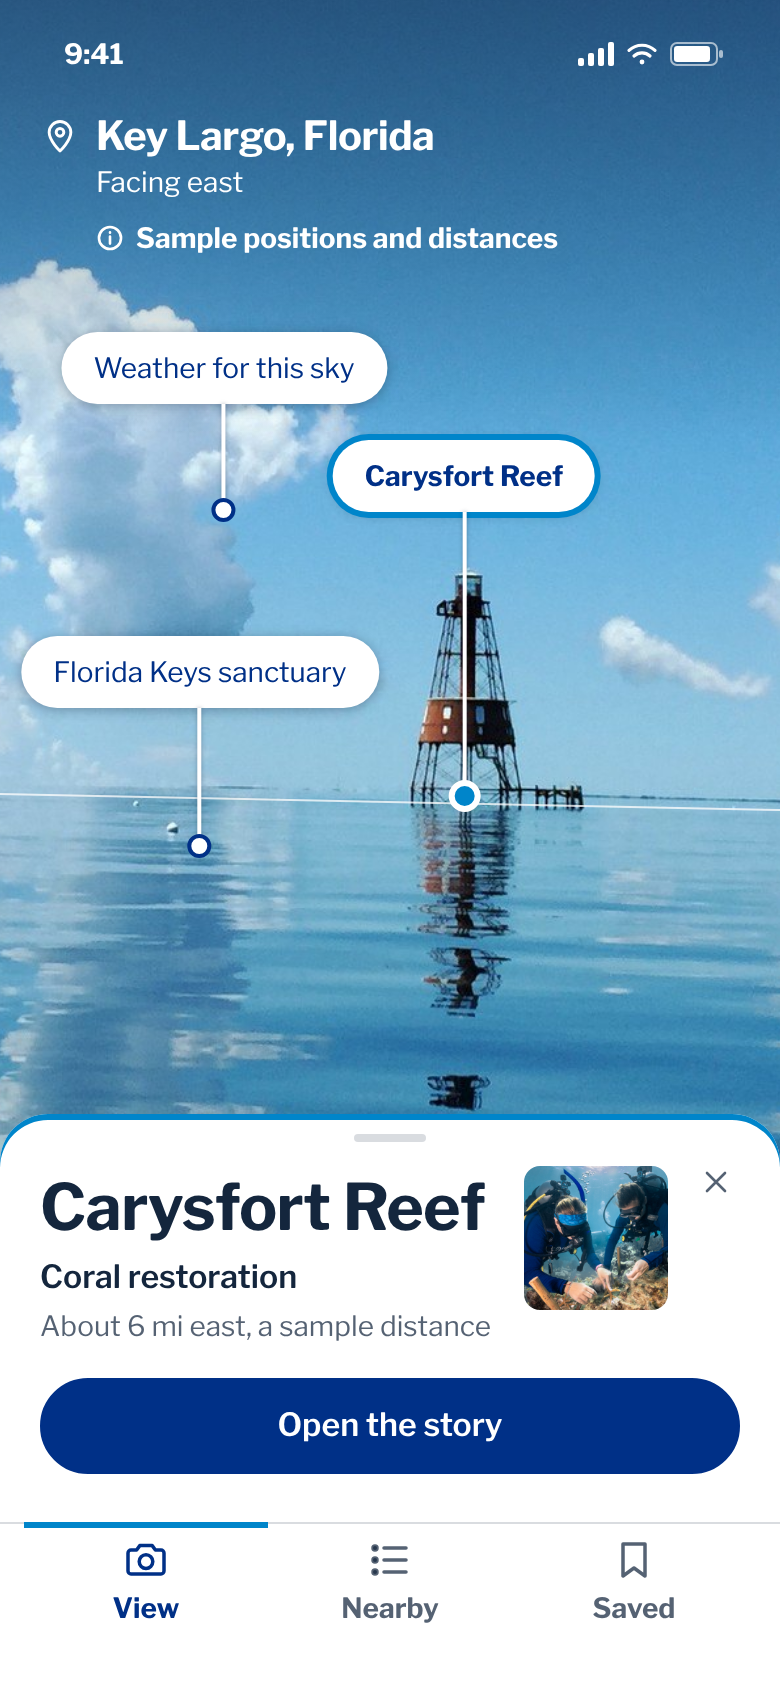
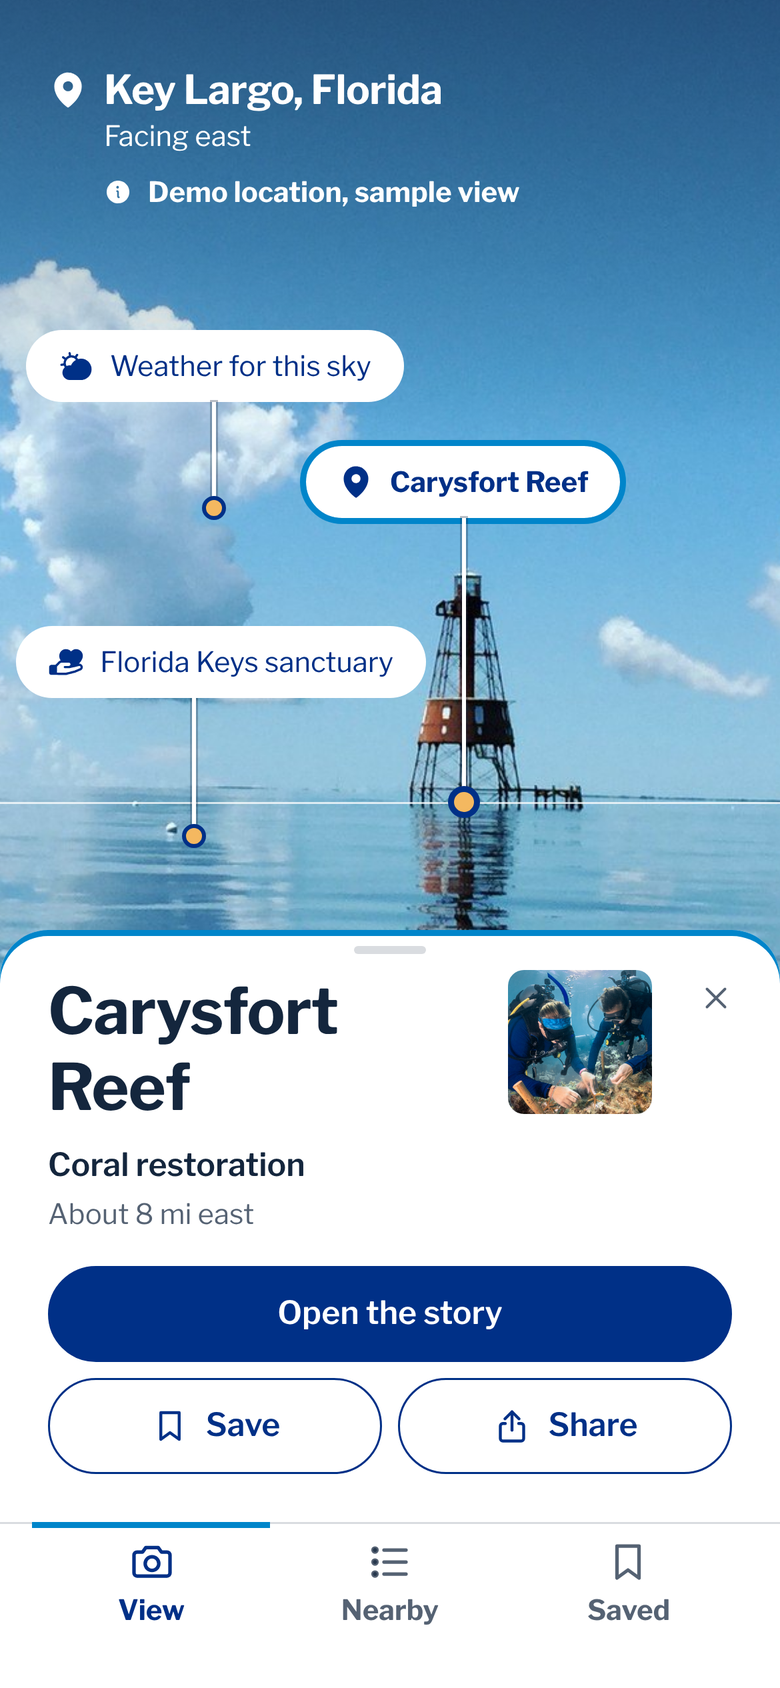
Site: pictures of the app show the current Horizon screens (#7)
The home page's closing section and the Ocean and sky page showed an older
app ("Sample positions and distances", no Save or Share). Both are now
the current sample view and the Carysfort Reef preview, 780 x 1688 as before.

Claude-Session: https://claude.ai/code/session_01VtQuQ34UCohJdqjaP6mgAg

diff --git a/ocean-and-sky.html b/ocean-and-sky.html
@@ -423,7 +423,7 @@
           <a class="link" href="horizon/index.html">Get the Horizon app</a>
         </div>
         <figure>
-          <div class="ph"><img src="images/horizon-reef.png" alt="The Horizon app with Carysfort Reef selected: a preview card over the camera view"></div>
+          <div class="ph"><img src="images/horizon-reef.png" alt="The Horizon app with Carysfort Reef selected: a preview card with Open the story, Save and Share over the sample view"></div>
           <figcaption class="cap">Horizon, Carysfort Reef selected. Positions and distances are samples.</figcaption>
         </figure>
       </div>
